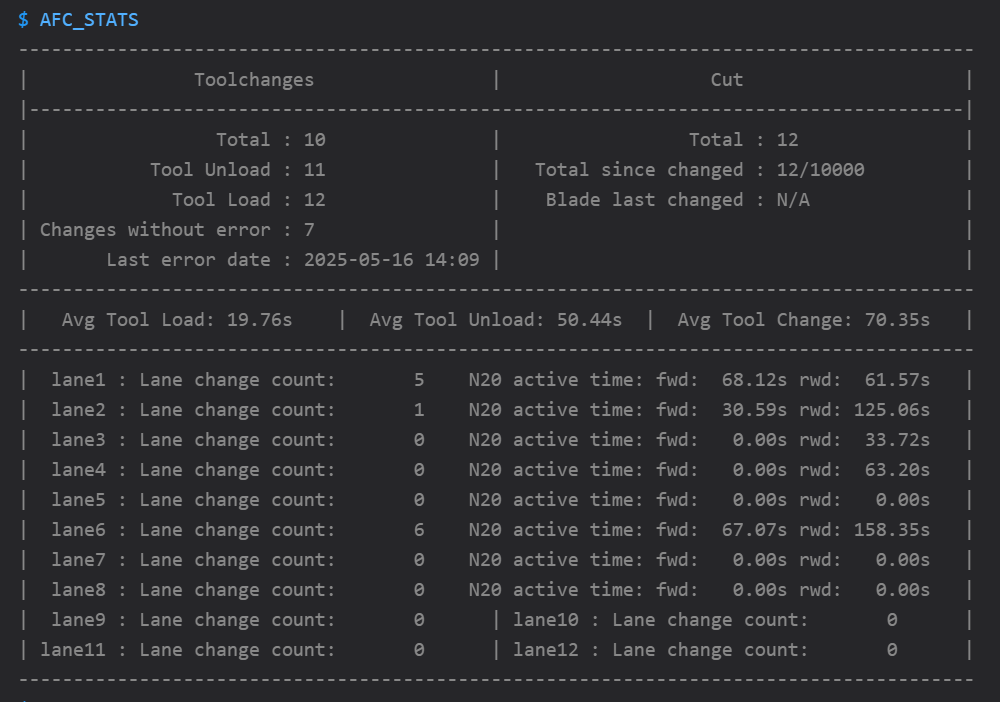
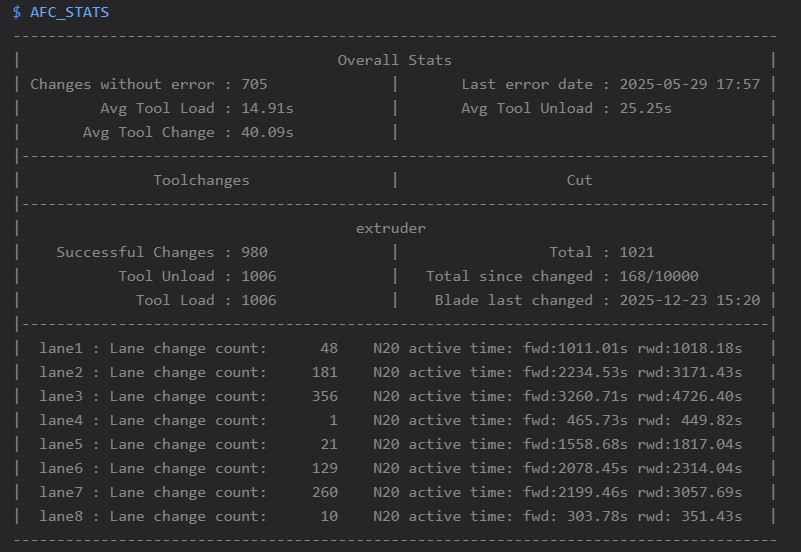
Updating documentation for updated statistics  (#145)
* Updating text for new AFC stat tracking
- Updated default pictures with new format

* Adding variables that were not documented and variable that had wrong default value

Pull request: Updating documentation for updated statistics
- Updating documentation on features page for statistics to let users know a new way of averaging has been introduced and the reset macro to call to start using the new calculation
- Added some variables that were missing
- Fixed variable that had wrong defaulted value.

diff --git a/docs/afc-klipper-add-on/configuration/AFC.cfg.md b/docs/afc-klipper-add-on/configuration/AFC.cfg.md
@@ -100,7 +100,7 @@ assisted_unload: True
 #    especially on full spools. This can prevent loops from slipping off the 
 #    spool. This is a global setting and can be overridden at the unit and 
 #    stepper level.
-pause_when_bypass_active: True
+pause_when_bypass_active: False
 #    Default: False
 #    When True AFC pauses print when change tool is called and bypass is loaded
 debug: False
@@ -217,6 +217,14 @@ debounce_delay: 0
 #
 #    This value can be overridden in AFC_extruder, AFC_hub, AFC_lane, AFC_stepper
 #    config sections.
+enable_hub_runout: True
+#    Default: True
+#    If enabled and hub sensor(s) detect filament not present while printing AFC will
+#    pause printing. This value can be overridden per toolhead in AFC_hub config sections.
+enable_tool_runout: True
+#    Default: True
+#    If enabled and toolhead sensor(s) detect filament not present while printing AFC
+#    will pause printing. The value can be overridden per toolhead in AFC_extruder config sections.
 test_extrude_amt: 10
 #    Default: 10
 #    Amount in mm to extrude when use the `AFC_TEST_LANES` calibration

diff --git a/docs/afc-klipper-add-on/features.md b/docs/afc-klipper-add-on/features.md
@@ -228,11 +228,19 @@ Use the following macros to print out statistics in console, update when blade h
 N20 active time:  
 - [AFC_STATS](klipper/internal/misc.md#AFC.afc.cmd_AFC_STATS) - prints statistics to console  
 - [AFC_CHANGE_BLADE](klipper/internal/misc.md#AFC.afc.cmd_AFC_CHANGE_BLADE) - run macro when blade is changed, sets date that blade was changes and resets `Total since changed` count  
-- [AFC_RESET_MOTOR_TIME](klipper/internal/lane.md#AFC_assist.Espooler.cmd_AFC_RESET_MOTOR_TIME) - run macro when N20 motor has been swapped out in a lane
+- [AFC_RESET_MOTOR_TIME](klipper/internal/lane.md#AFC_assist.Espooler.cmd_AFC_RESET_MOTOR_TIME) - run macro when N20 motor has been swapped out in a lane  
+- [AFC_RESET_STATS](klipper/internal/misc.md#AFC.afc.cmd_AFC_RESET_STATS) - run macro to reset extruder and lane counts
+
 
 Both variables can be added/updated in `[AFC]` [section](configuration/AFC.cfg.md#afc-section) :  
 - `print_short_stats`: Add/uncomment to have the statistics printout to be skinner. Useful for those that have consoles that are skinner( eg. Klipperscreen )  
 - `tool_cut_threshold`: Defaults to 10000 cuts, update to if you want threshold to be larger. This controls when AFC prints out warning/errors when number of cuts since changed reaches/exceeds this number.
+
+!!!note
+    As of AFC-Klipper-Add-On version 1.0.34 new averaging for load times was introduced. Before AFC would not keep track of the total time when averaging, now AFC has the ability to keep track of total time and average with load counts. For AFC to calculate the new, the [AFC_RESET_STATS](klipper/internal/misc.md#AFC.afc.cmd_AFC_RESET_STATS) macro needs to be ran like the following(this will reset your current extruder counts and load times):  
+    `AFC_RESET_STATS EXTRUDER=all`.
+
+    Once this macro is ran, moonrakers database will first be backed up just incase someone would like to restore previous stats before resetting values. This reset needs to happen for AFC to average load times correctly based of load counts.
 
 Examples of what statistics printout looks like:  
 ![stats_normal](../assets/images/afc_stats_wide.png)

diff --git a/docs/afc-klipper-add-on/configuration/AFC_UnitType_1.cfg.md b/docs/afc-klipper-add-on/configuration/AFC_UnitType_1.cfg.md
@@ -266,7 +266,8 @@ full_weight: 1000
 #    overrides values set in unit(AFC_BoxTurtle/NightOwl/etc).
 load_to_hub: True
 #    Default: True
-#    Fast loads filament to hub when inserted, set to False to disable. 
+#    Fast loads filament to hub when inserted, set to False to disable. This value is not
+#    used in HTLF units.
 #    Setting here overrides global setting in AFC.cfg.
 enable_sensors_in_gui: False
 #    Default: False
@@ -489,6 +490,10 @@ debounce_delay: 0
 #    the entire switch event is ignored.
 #
 #    This value overrides value set in AFC config section
+enable_hub_runout: True
+#    Default: True
+#    If enabled and hub sensor(s) detect filament not present while printing AFC will
+#    pause printing. Inputting value here overrides global value in AFC.cfg file
 ```
 
 ## [AFC_led led_name] Section

diff --git a/docs/afc-klipper-add-on/klipper/internal/misc.md b/docs/afc-klipper-add-on/klipper/internal/misc.md
@@ -115,6 +115,13 @@ These commands are used for various purposes, including error handling, tool cha
       heading_level: 3
 
 -----
+[AFC_RESET_STATS]
+::: AFC.afc.cmd_AFC_RESET_STATS
+    options:
+      docstring_style: numpy
+      heading_level: 3
+
+-----
 [AFC_CLEAR_MESSAGE]
 ::: AFC.afc.cmd_AFC_CLEAR_MESSAGE
     options:

diff --git a/docs/afc-klipper-add-on/configuration/AFC_Hardware.cfg.md b/docs/afc-klipper-add-on/configuration/AFC_Hardware.cfg.md
@@ -51,6 +51,10 @@ enable_sensors_in_gui: False
 #    Default: False
 #    Set to True toolhead sensors switches as filament sensors in 
 #    Mainsail/Fluidd gui, overrides value set in AFC.cfg.
+enable_tool_runout: True
+#    Default: True
+#    If enabled and toolhead sensor(s) detect filament not present while printing AFC
+#    will pause printing. Inputting value here overrides global value in AFC.cfg file
 debounce_delay: 0
 #    Default: 0
 #    A period of time in seconds to debounce switches prior to detecting